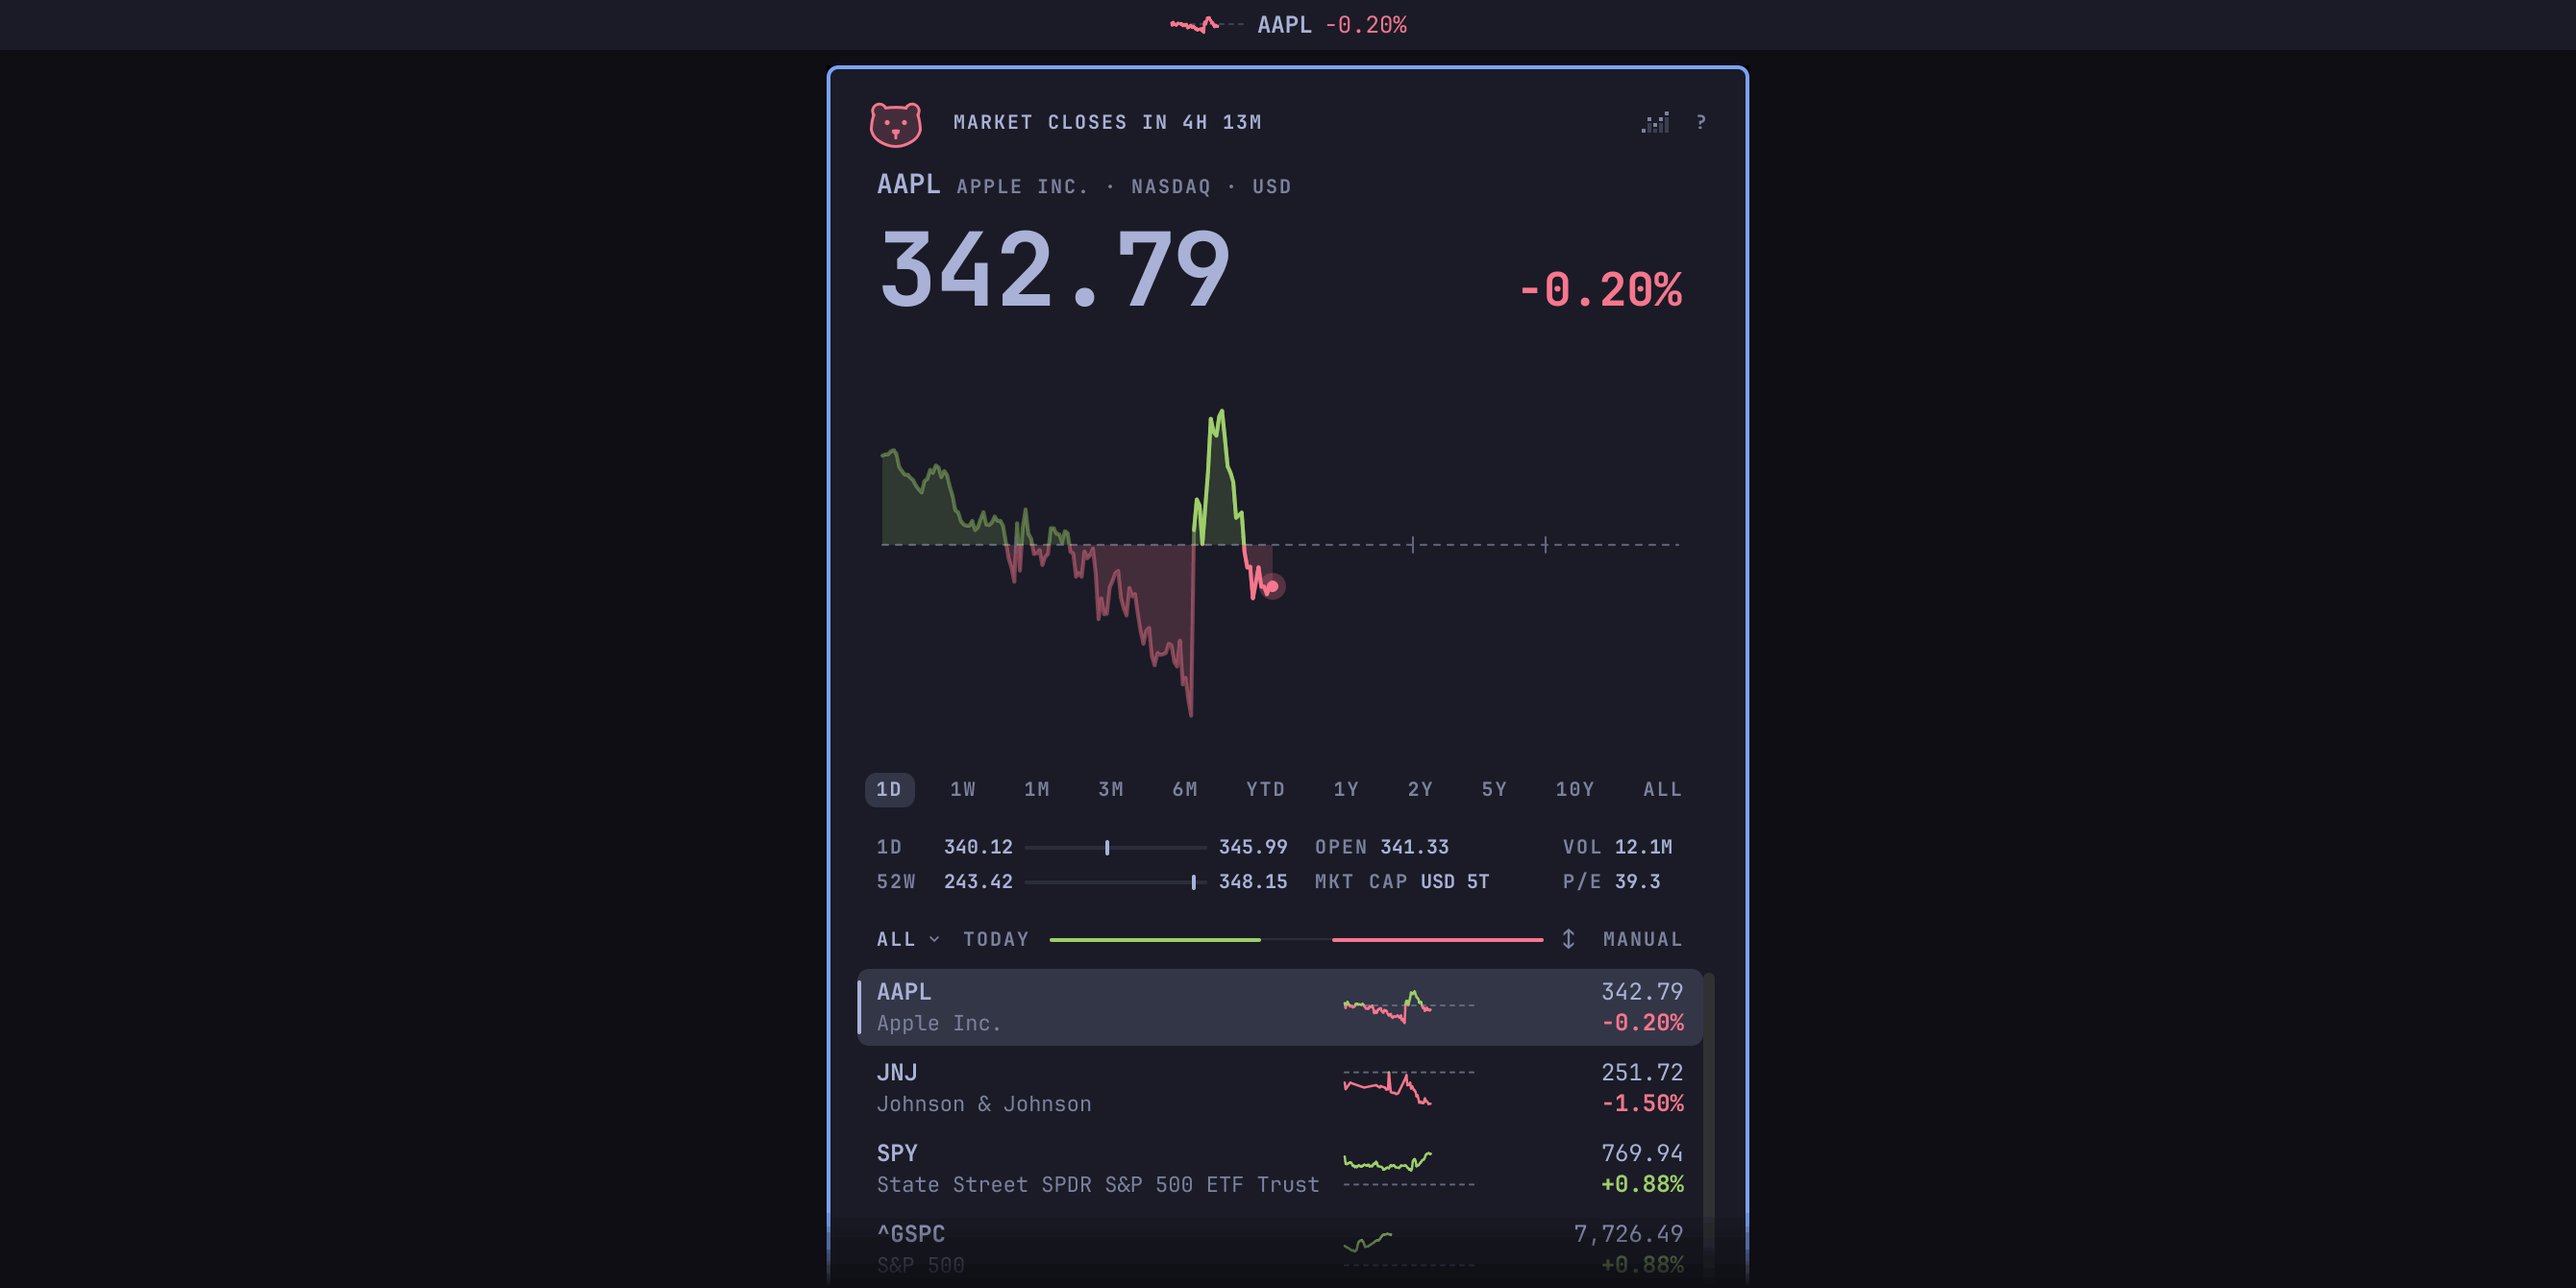
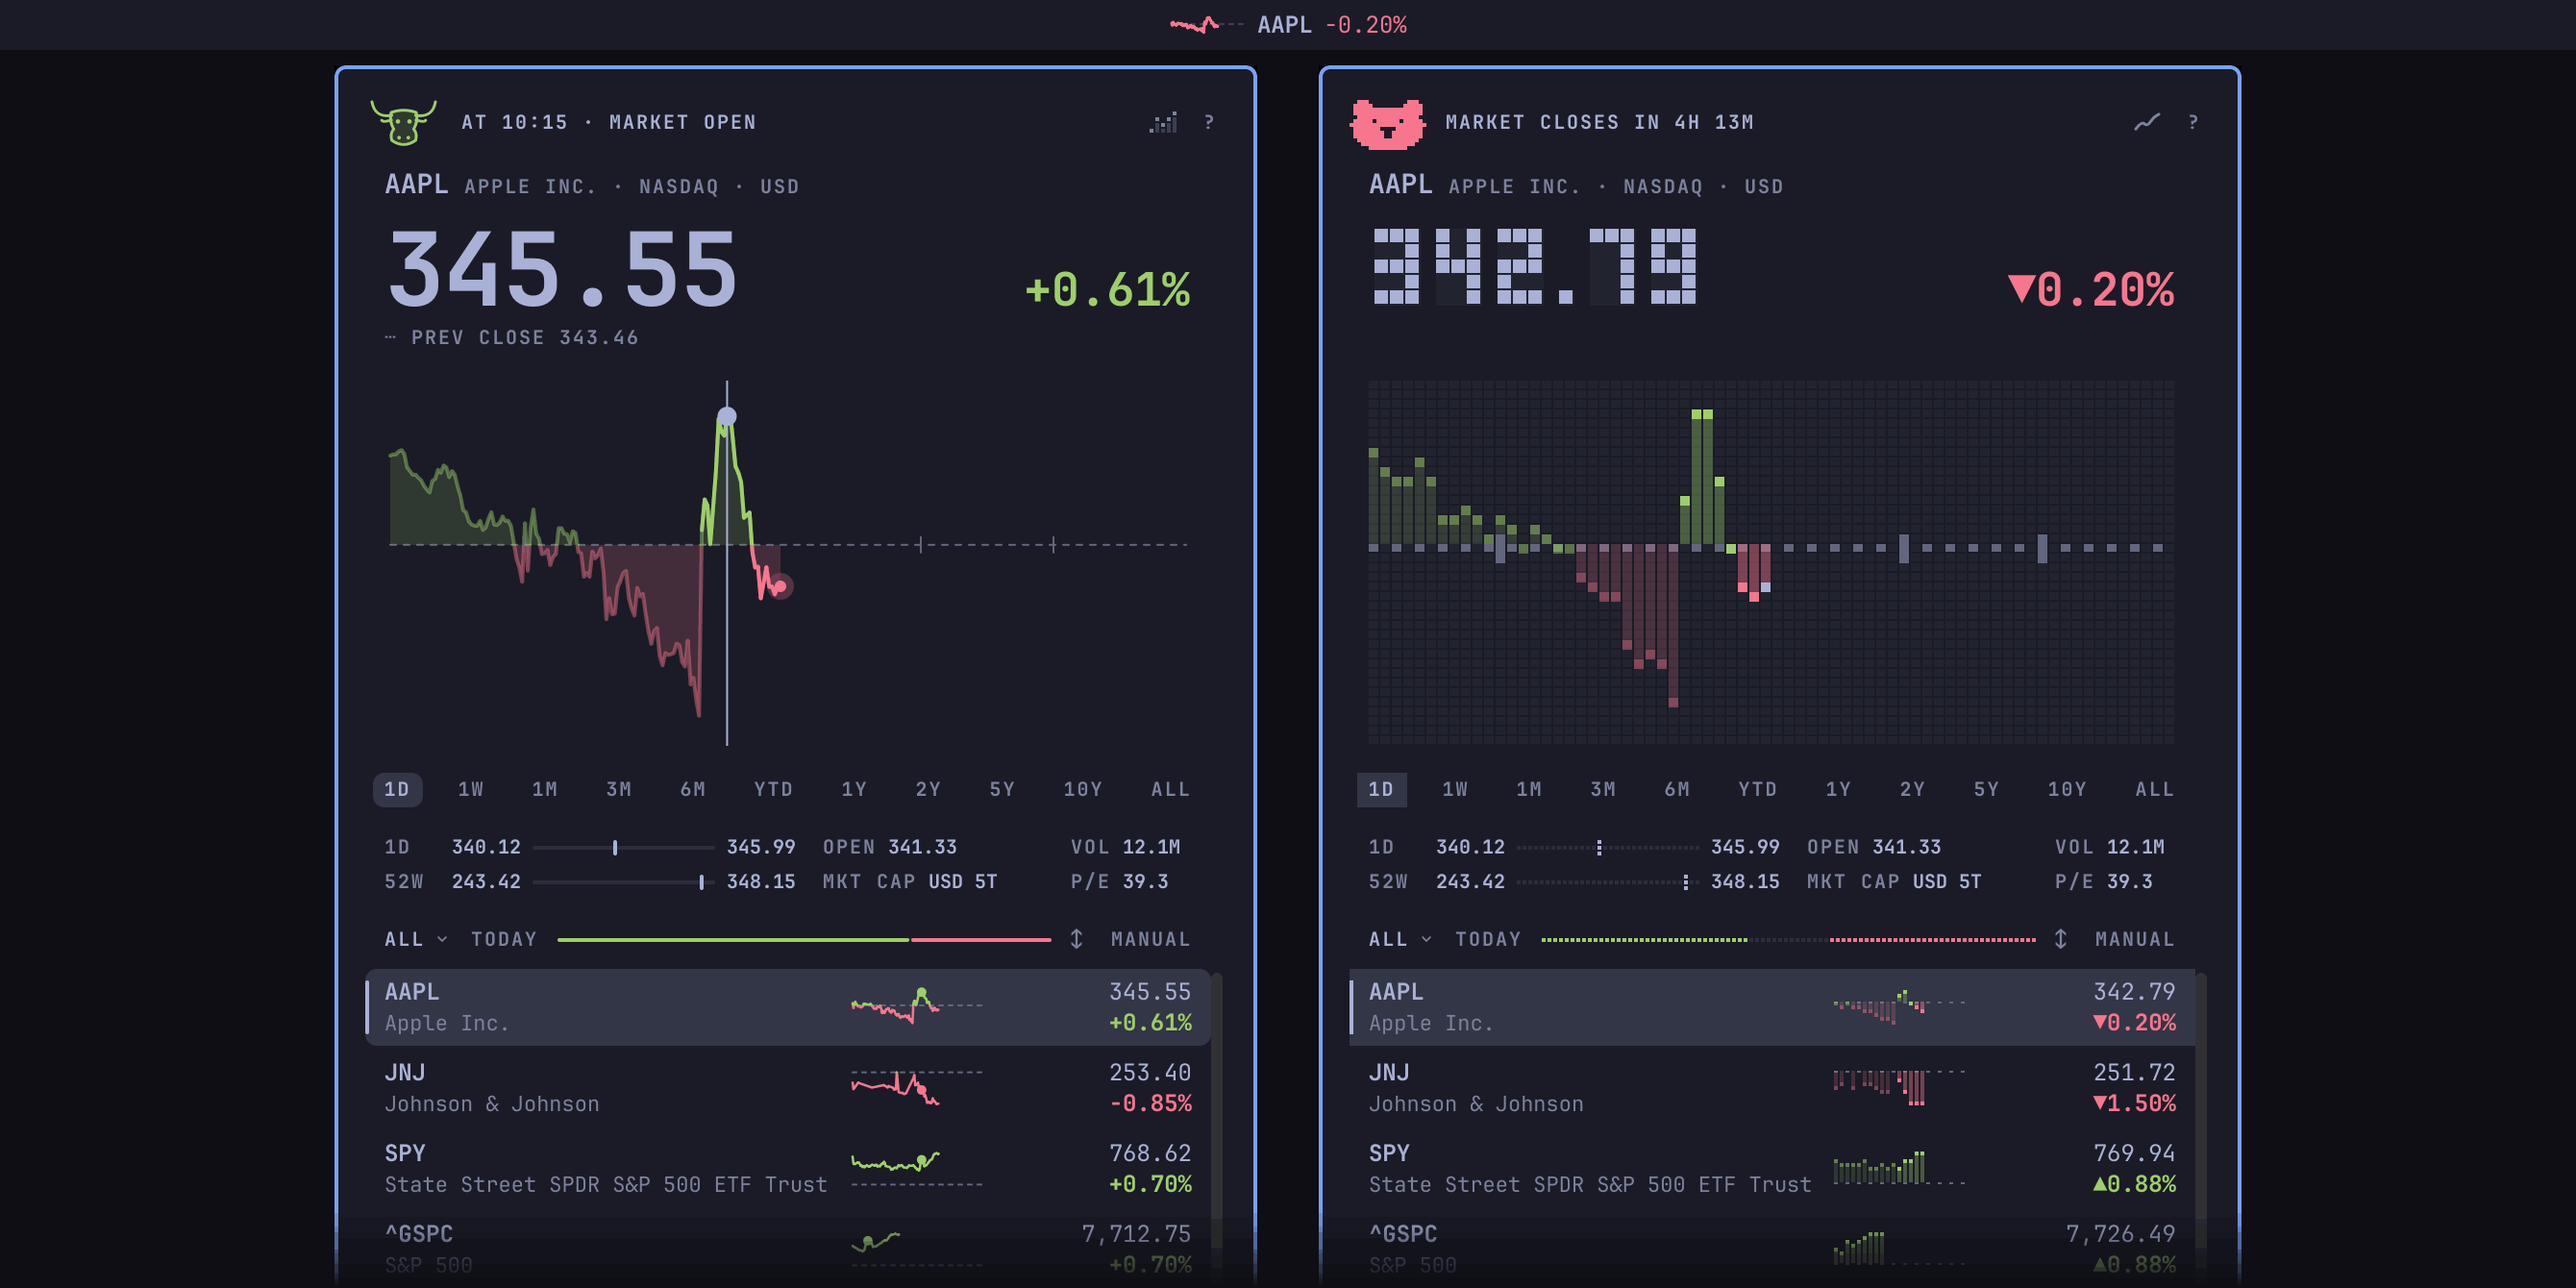
The card shows both looks, and the README a light theme
preview.png puts the README's scrub (smooth, back at 10:15, the bull)
and retro (now, the bear) side by side under the pill, each to its
list's first rows, filling the marketplace card. media/light.png is the
popup in Catppuccin Latte, Stonks' own pair on a light ground, from the
same capture.

diff --git a/test/qml/readme.qml b/test/qml/readme.qml
@@ -1,6 +1,7 @@
 import QtQuick
 import QtTest
 import Quickshell
+import Quickshell.Io
 import qs.Commons
 import qs.Ui
 import "plugin" as Stonks
@@ -16,6 +17,8 @@ ShellRoot {
   readonly property string rawDir: Quickshell.env("STONKS_README_RAW")
   readonly property var demo: ["AAPL", "JNJ", "SPY", "^GSPC", "BTC-USD", "SHEL.L", "7203.T"]
   readonly property var us: ["AAPL", "JNJ", "SPY"]
+  readonly property string themeLink: Quickshell.env("HOME") + "/.local/state/omarchy/current/theme"
+  property bool themeLinked: false
 
   function check(label, ok, detail) {
     console.log((ok ? "PASS " : "FAIL ") + label + (!ok && detail !== undefined ? " — " + detail : ""))
@@ -55,6 +58,7 @@ ShellRoot {
   }
   Stonks.Panel { id: panel; bar: api; settings: ({}) }
   Stonks.App { id: app; service: service; updates: updates; trendColors: colors }
+  Process { id: themeSwitch; onExited: harness.themeLinked = true }
 
   // The pill on strips of bar: one as wide as the popup's card, which
   // readme.sh widens into preview.png's bar; and each of its four forms.
@@ -179,6 +183,17 @@ ShellRoot {
       harness.check("grabbed " + name, saved)
     }
 
+    // preview.png keeps a popup down to its list's fourth row, fading out
+    // over it: each end as a share of the card's height, for readme.sh.
+    function previewFade(name, body) {
+      var card = panel.testCard.card
+      var bottom = function(row) {
+        var item = body.watchlist.rowItem(body.watchlist.displayedSymbols[row])
+        return item.mapToItem(card, 0, item.height).y / card.height
+      }
+      console.log("PREVIEW_FADE " + name + " " + bottom(2).toFixed(4) + " " + bottom(3).toFixed(4))
+    }
+
     function test_pictures() {
       quiet()
       harness.check("the demo watchlist, AAPL featured, on All and the day",
@@ -188,18 +203,8 @@ ShellRoot {
       panel.open()
       var body = panel.testBody
       tryVerify(function() { return body.surfaceOpen }, 3000)
-      grab("popup", panel.testCard.card, body, robinhoodIn)
-      grab("strip", heroStrip)
+      grab("strip", heroStrip, body, robinhoodIn)
       grab("forms", forms)
-      // preview.png keeps the popup down to its list's fourth row, fading
-      // out over it: each end as a share of the card's height, for
-      // readme.sh.
-      var card = panel.testCard.card
-      var bottom = function(row) {
-        var item = body.watchlist.rowItem(body.watchlist.displayedSymbols[row])
-        return item.mapToItem(card, 0, item.height).y / card.height
-      }
-      console.log("PREVIEW_FADE " + bottom(2).toFixed(4) + " " + bottom(3).toFixed(4))
 
       // Scrubbed back an hour and a half, as ← steps do, a print at a time:
       // a capture taken mid-session lands in the same session.
@@ -209,6 +214,7 @@ ShellRoot {
       harness.check("the scrub reached an hour and a half back", body.motion.scrubT > 0 && body.motion.scrubT <= back,
         body.motion.scrubT + " vs " + back)
       grab("scrub", panel.testCard.card, body, function() { return body.motion.scrubT !== 0 })
+      previewFade("scrub", body)
       body.endScrub()
       tryVerify(function() { return atRest(body) }, 3000, "the rows back on now")
 
@@ -233,6 +239,7 @@ ShellRoot {
       service.persist({ style: "retro" })
       panel.open()
       grab("retro", panel.testCard.card, body, function() { return service.retro && body.surfaceOpen })
+      previewFade("retro", body)
       panel.close()
       service.persist({ style: "smooth" })
       tryVerify(function() { return !body.surfaceOpen && !service.retro }, 3000)
@@ -240,6 +247,24 @@ ShellRoot {
       app.open("{}")
       grab("window", app.testKeyCatcher, app.testBody, function() { return app.testBody.surfaceOpen })
       app.close()
+
+      // Catppuccin Latte, as omarchy-theme-set switches it: the theme's
+      // files in place, then its palette handed to the shell. Its green and
+      // red are no real pair, so up and down are Stonks' own pair for a
+      // light ground.
+      var before = colors.green
+      themeSwitch.command = ["ln", "-sfn", "/usr/share/omarchy/themes/catppuccin-latte", harness.themeLink]
+      themeSwitch.running = true
+      tryVerify(function() { return harness.themeLinked }, 2000, "Catppuccin Latte in place")
+      var view = Qt.createQmlObject('import Quickshell.Io; FileView { blockLoading: true }', harness)
+      view.path = harness.themeLink + "/colors.toml"
+      Color.loadColors(view.text())
+      Color.loadShell("")
+      view.destroy()
+      tryVerify(function() { return colors.green !== before }, 2000, "Catppuccin Latte read")
+      panel.open()
+      grab("light", panel.testCard.card, body, function() { return body.surfaceOpen })
+      panel.close()
       harness.finish()
     }
   }

diff --git a/README.md b/README.md
@@ -3,7 +3,7 @@
 A stock watchlist plugin for the Omarchy 4 shell: today's move in your bar,
 and a chart you can scrub a click away.
 
-<img src="preview.png" alt="Stonks in the Omarchy bar: the pill shows Apple's symbol, sparkline, and change, and under it the popup shows Apple's price, the day's chart, the range buttons, the day's and 52-week figures, and the first rows of the list">
+<img src="preview.png" alt="Stonks in the Omarchy bar: the pill shows Apple's symbol, sparkline, and change, and under it two popups side by side, each showing Apple's price, the day's chart, the range buttons, the day's and 52-week figures, and the first rows of the list. On the left, smooth, scrubbed back to 10:15 when the day was up, with the bull; on the right, retro, on the latest price of a down day, with the bear">
 
 - Today's move in your bar; scroll over it to step through your stocks.
 - Click for the day's chart and scrub it with the pointer, or pick a range
@@ -18,6 +18,8 @@ and a chart you can scrub a click away.
 - No account and no API key.
 
 It doesn't track holdings, send price alerts, or convert currencies.
+
+<img src="media/light.png" width="480" alt="The popup in Catppuccin Latte, a light theme: Stonks' own green and red, for a light ground, on the theme's pale background">
 
 ## Install
 
